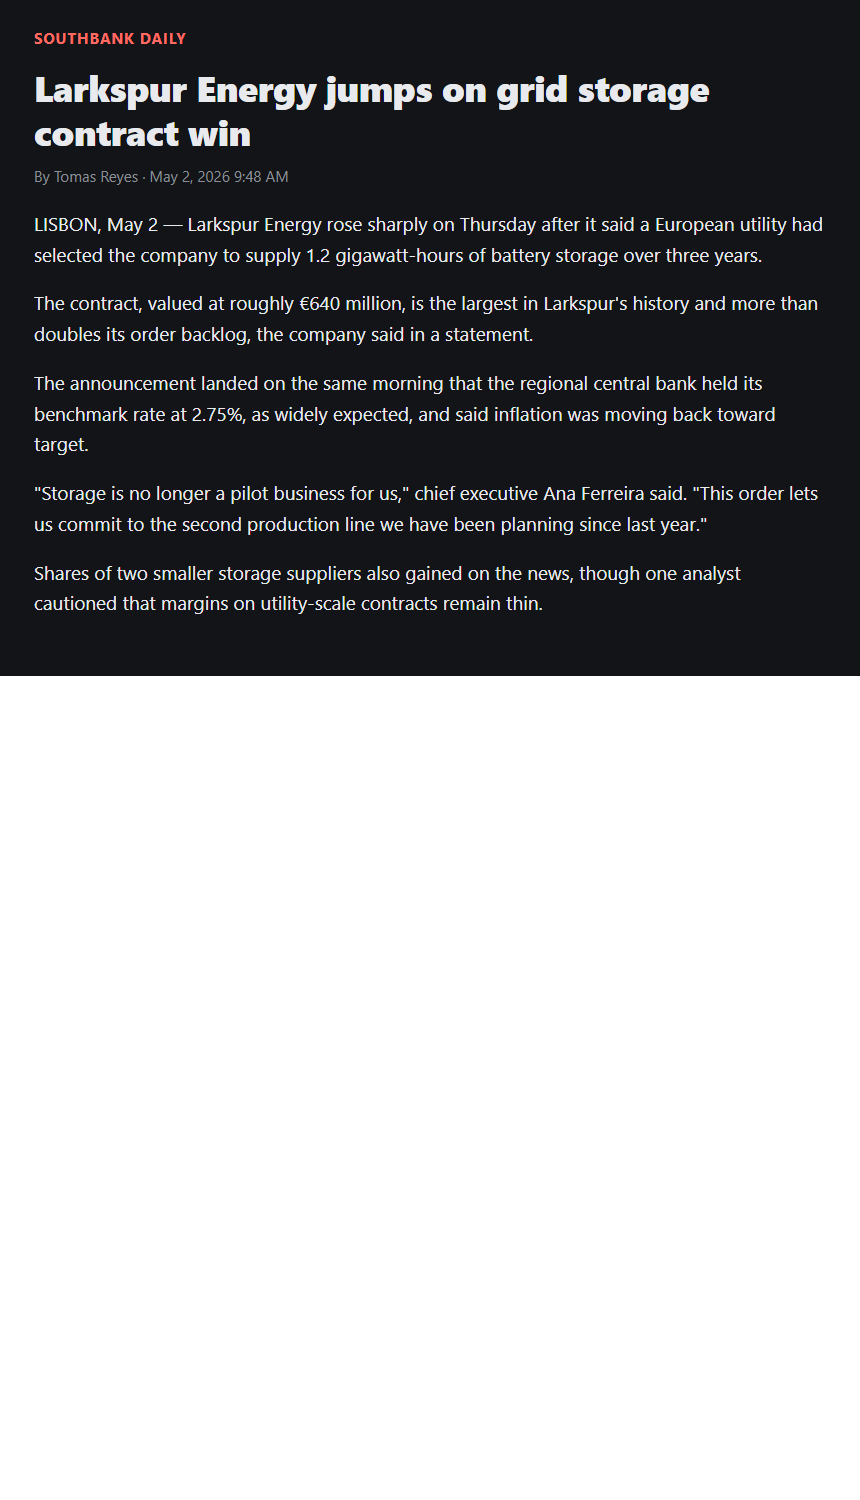
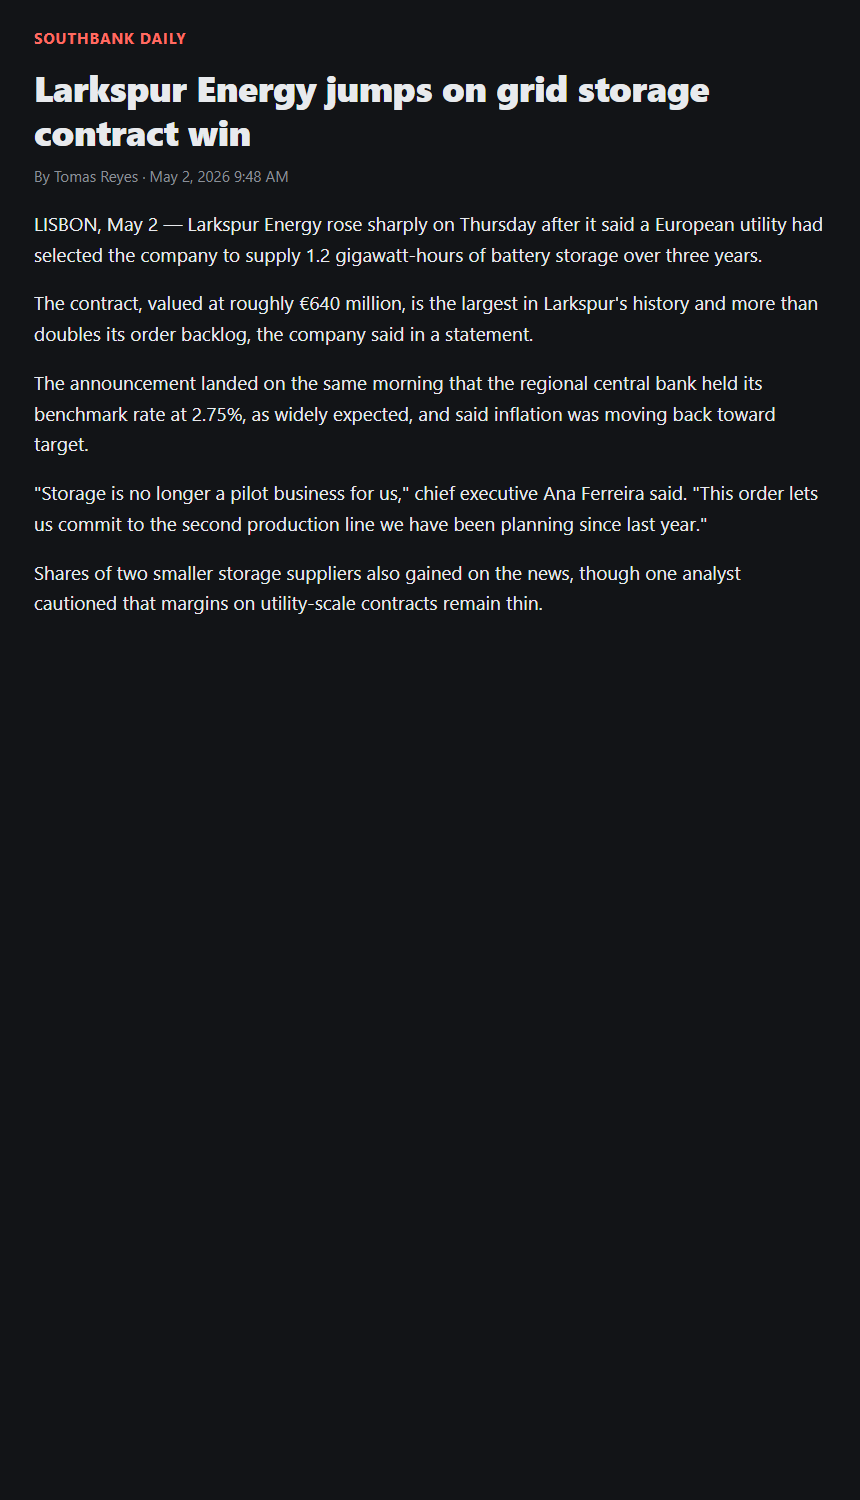
fixtures: dark theme must cover <html> too — the first dark render was white below the body
CSS gave html an explicit white background, so body.dark left everything
under the article white and the "dark" PNGs were half light. Rendered again
with html.dark; the run made on the half-white images was discarded.

diff --git a/fixtures/templates/article.css b/fixtures/templates/article.css
@@ -31,7 +31,7 @@ h1 {
 .body p { font-size: 19px; line-height: 1.62; margin: 0 0 18px; }
 
 /* Dark theme: what the original real-world failure cases looked like. */
-body.dark { background: #121417; color: #e8eaed; }
+html.dark, body.dark { background: #121417; color: #e8eaed; }
 body.dark .outlet { color: #ff6b62; }
 body.dark .deck { color: #b4b8c0; }
 body.dark .meta { color: #8b9098; }
